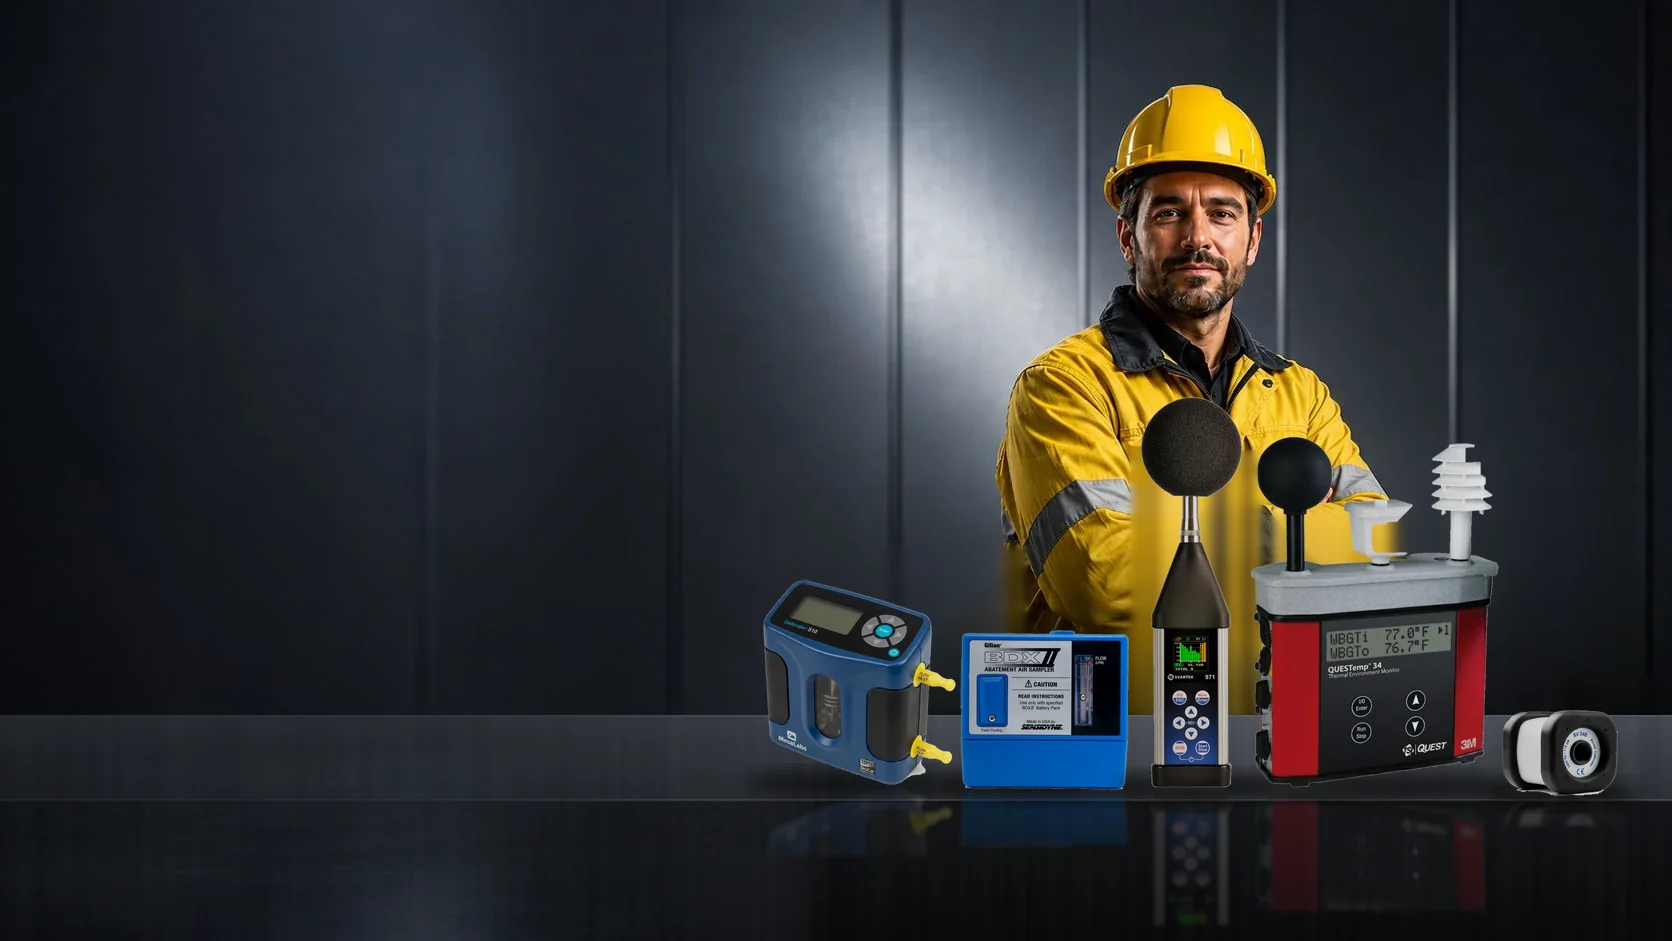
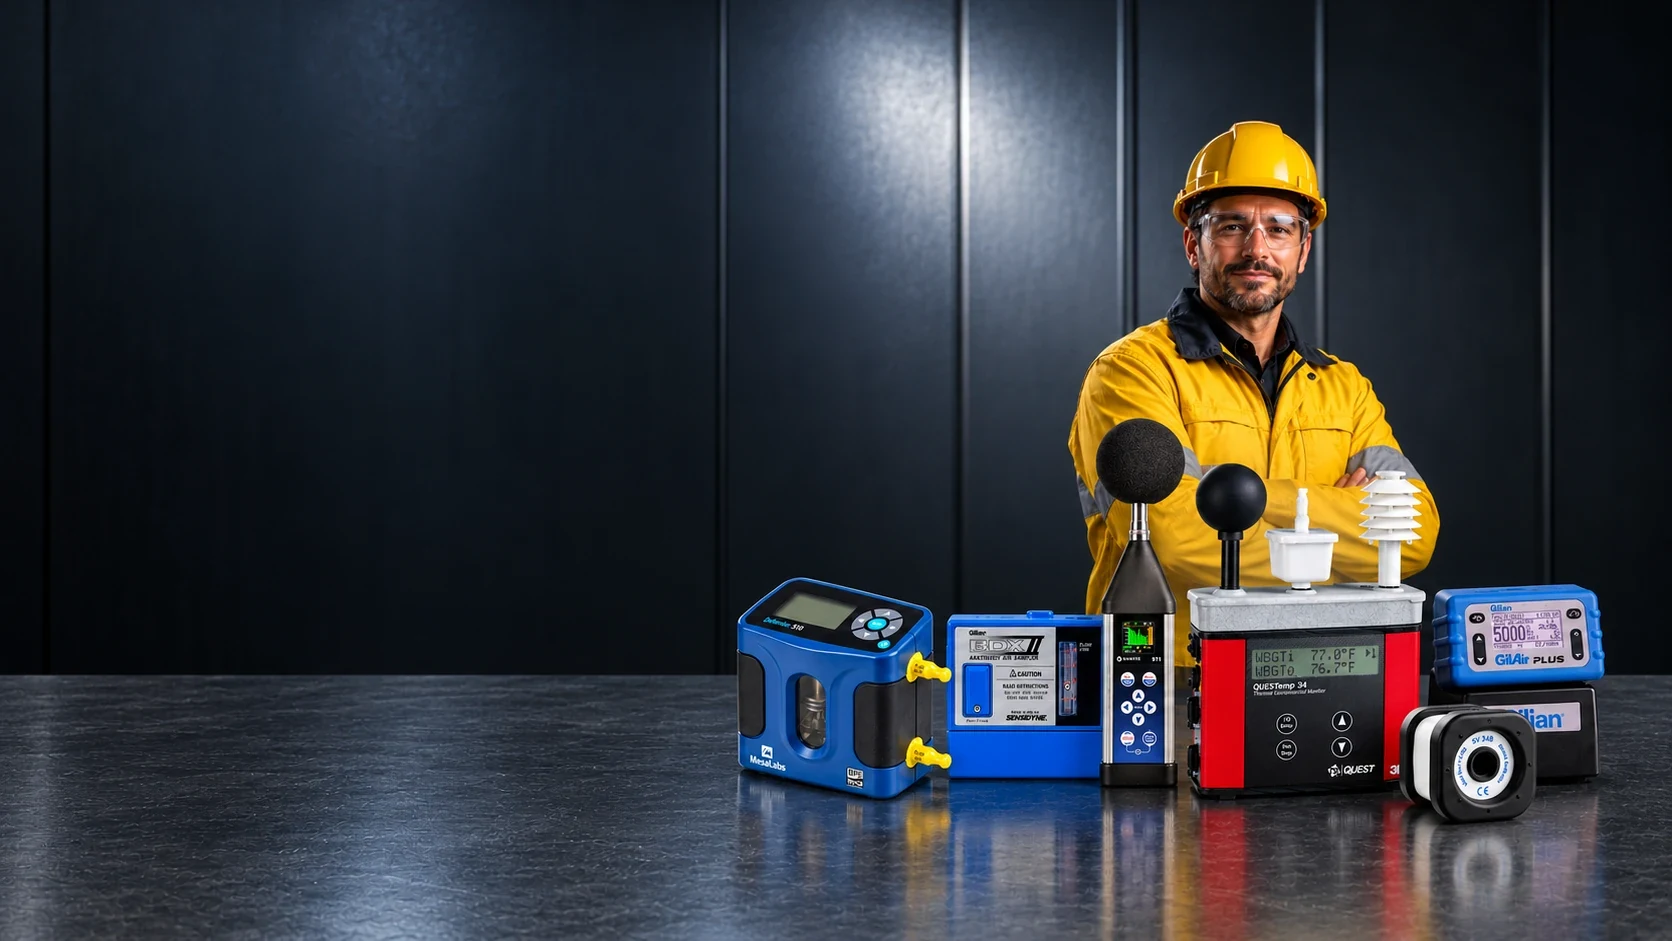
Atualiza imagem do hero com os seis instrumentos
Imagem final enviada pelo cliente, com GilAir Plus incluída.
Enquadramento ancorado à direita para não cortar os equipamentos
em telas de 1366px.

Claude-Session: https://claude.ai/code/session_01U1JUNqCaokKsr1QVRfedx7

diff --git a/assets/css/style.css b/assets/css/style.css
@@ -136,7 +136,7 @@ a { color: inherit; }
   width: 100%;
   height: 100%;
   object-fit: cover;
-  object-position: center;
+  object-position: 75% center;
 }
 .hero__content { z-index: 1; padding-top: 90px; padding-bottom: 112px; }
 .hero__logo { width: 138px; height: auto; margin-left: 8px; }

diff --git a/README.md b/README.md
@@ -17,7 +17,7 @@ Para visualizar, basta abrir `index.html` no navegador ou publicar a pasta em qu
 | Seção | Ajuste | Status |
 |---|---|---|
 | 1 · Hero | Texto "+15 anos" → **"+20 anos de atuação"** | ✅ |
-| 1 · Hero | Equipamentos trocados: Defender 510, BDX II, SV 971, QUESTemp 34 e calibrador SV 34B à direita (CalPro removido, BDX II sem duplicata, proporções reais) | ✅ (falta incluir a GilAir Plus) |
+| 1 · Hero | Nova imagem com os seis instrumentos: Defender 510, BDX II, SV 971, QUESTemp 34, GilAir Plus e calibrador SV 34B à direita | ✅ |
 | 2 · Produtos | Imagem de acessórios exibida **completa** (sem corte) | ✅ |
 | 2 · Produtos | Decibelímetro Instrutherm trocado pelo **SV 971A** | ✅ |
 | 3 · Sobre | "15 anos" → **"20 anos"** | ✅ |
@@ -28,7 +28,7 @@ Para visualizar, basta abrir `index.html` no navegador ou publicar a pasta em qu
 
 ### Imagem do banner
 
-`assets/img/hero-bg.webp` é uma composição: a foto original do especialista com os equipamentos antigos removidos, uma bancada escura e os produtos recortados por cima. A GilAir Plus ainda não entrou porque o arquivo não chegou.
+`assets/img/hero-bg.webp` é a imagem final enviada pelo cliente ("Seis instrumentos industriais em destaque"). No CSS ela fica ancorada em `75% center` para manter todos os equipamentos visíveis em telas de notebook.
 
 ## Animações
 
